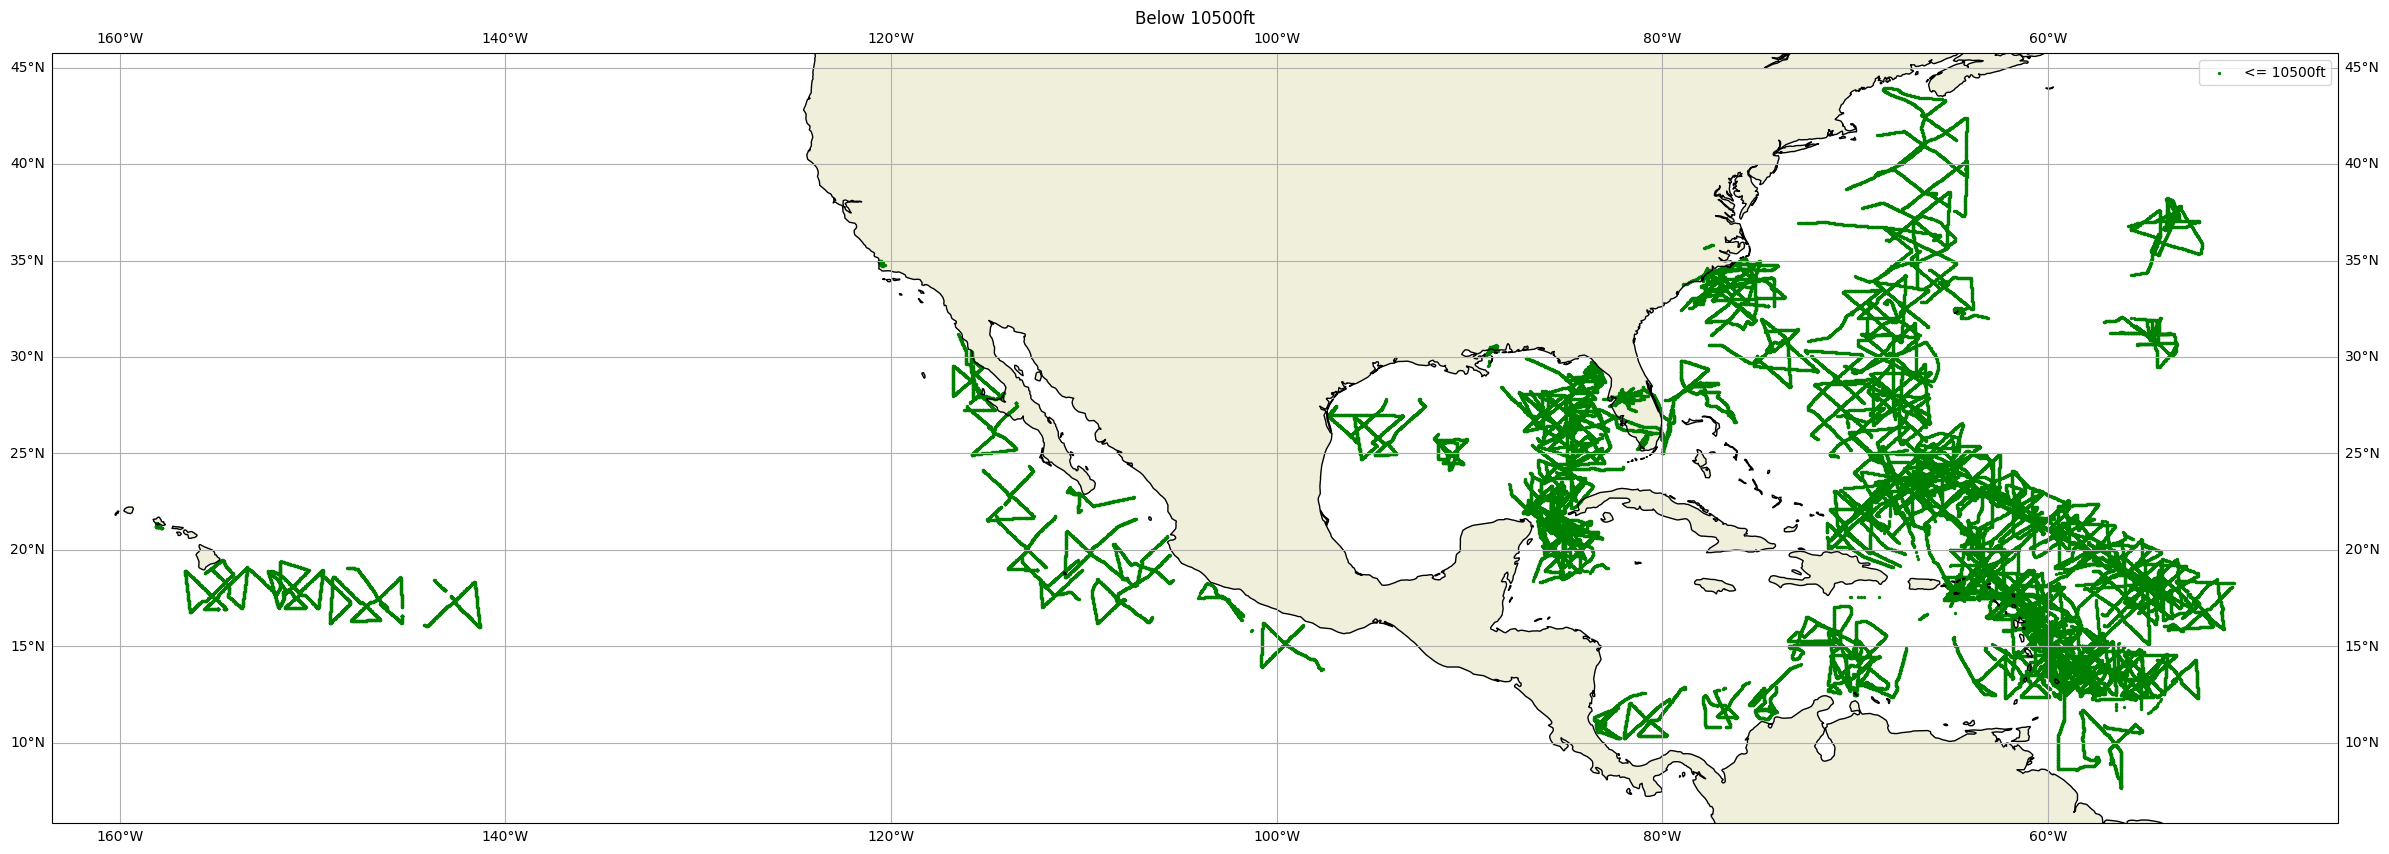
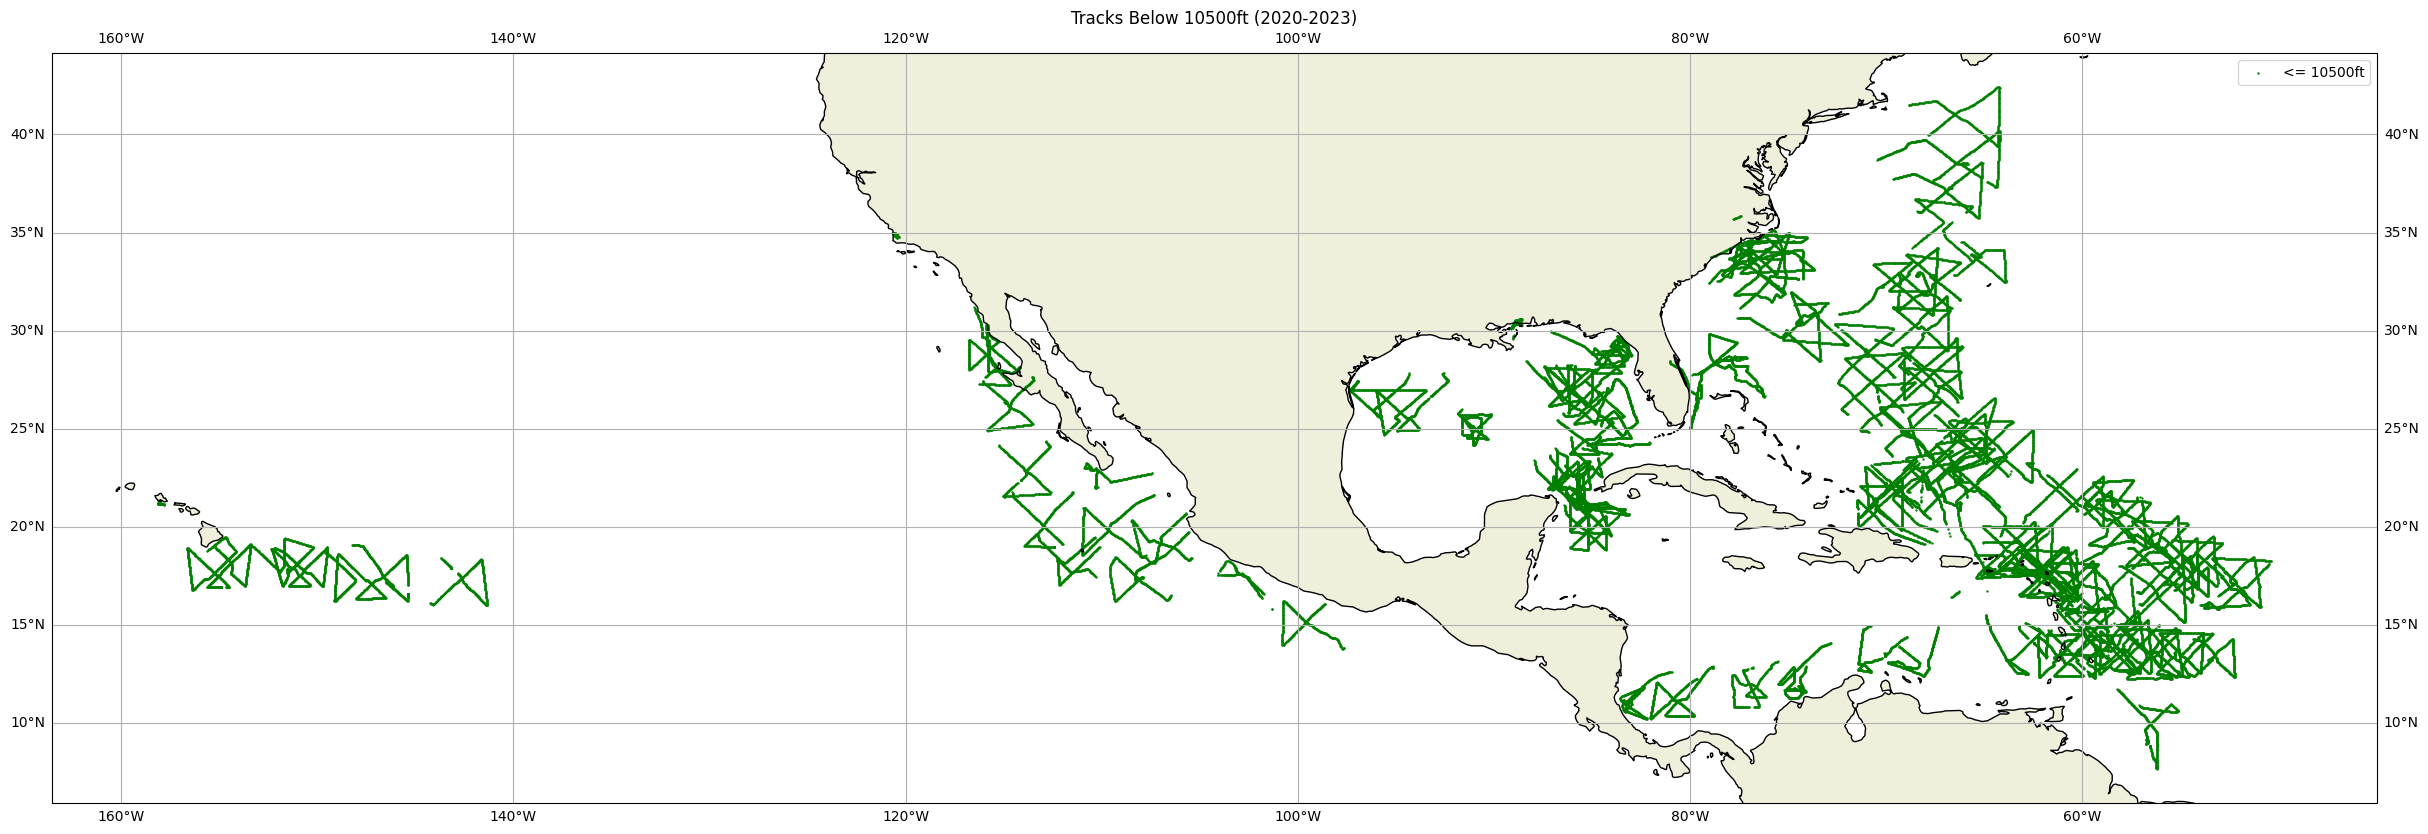
123

diff --git a/plot_data.py b/plot_data.py
@@ -7,7 +7,7 @@ import matplotlib.pyplot as plt
 pickle_file_path = './data/pickle/' #path to the data
 save_file_path = './figures/' #path to where figures will be output
 alt_thresh = 3200.5 #threshold for above vs below altitude (in meters); 10000ft = 3048m; using 3200 for safety
-marker_size = 2
+marker_size = .5
 
 ###load the data
 all_data = pandas.DataFrame()
@@ -15,6 +15,9 @@ for filename in os.listdir(pickle_file_path):
     abs_path = os.path.abspath(pickle_file_path + filename)
     data = pandas.read_pickle(abs_path)
     all_data = pandas.concat([all_data, data])
+#parse the data so only USAF flights are included
+all_data = all_data.loc[all_data['mission_id'].str.startswith('AF')]
+
 
 def m_to_f(m):
     f = 3.28084 * m
@@ -32,7 +35,7 @@ ax.add_feature(cfeature.LAND)
 ax.gridlines(draw_labels = True)
 ax.scatter(all_data['lon'], all_data['lat'], c = 'blue', s = marker_size, label = f'All Tracks')
 ax.legend()
-plt.title('Full Tracks')
+plt.title('Tracks (2020-2023)')
 plt.savefig(os.path.abspath(save_file_path + 'all_tracks.png'), bbox_inches = 'tight')
 
 #both
@@ -44,7 +47,7 @@ ax.gridlines(draw_labels = True)
 ax.scatter(above_10k['lon'], above_10k['lat'], c = 'red', s = marker_size, label = f'> {round(m_to_f(alt_thresh))}ft')
 ax.scatter(below_10k['lon'], below_10k['lat'], c = 'green', s = marker_size, label = f'<= {round(m_to_f(alt_thresh))}ft')
 ax.legend()
-plt.title(f'Above vs Below {round(m_to_f(alt_thresh))}ft')
+plt.title(f'Tracks Above vs Below {round(m_to_f(alt_thresh))}ft (2020-2023)')
 plt.savefig(os.path.abspath(save_file_path + 'both.png'), bbox_inches = 'tight')
 
 #above
@@ -55,7 +58,7 @@ ax.add_feature(cfeature.LAND)
 ax.gridlines(draw_labels = True)
 ax.scatter(above_10k['lon'], above_10k['lat'], c = 'red', s = marker_size, label = f'> {round(m_to_f(alt_thresh))}ft')
 ax.legend()
-plt.title(f'Above {round(m_to_f(alt_thresh))}ft')
+plt.title(f'Tracks Above {round(m_to_f(alt_thresh))}ft (2020-2023)')
 plt.savefig(os.path.abspath(save_file_path + 'above.png'), bbox_inches = 'tight')
 
 #below
@@ -66,5 +69,7 @@ ax.add_feature(cfeature.LAND)
 ax.gridlines(draw_labels = True)
 ax.scatter(below_10k['lon'], below_10k['lat'], c = 'green', s = marker_size, label = f'<= {round(m_to_f(alt_thresh))}ft')
 ax.legend()
-plt.title(f'Below {round(m_to_f(alt_thresh))}ft')
+plt.title(f'Tracks Below {round(m_to_f(alt_thresh))}ft (2020-2023)')
 plt.savefig(os.path.abspath(save_file_path + 'below.png'), bbox_inches = 'tight')
+
+
